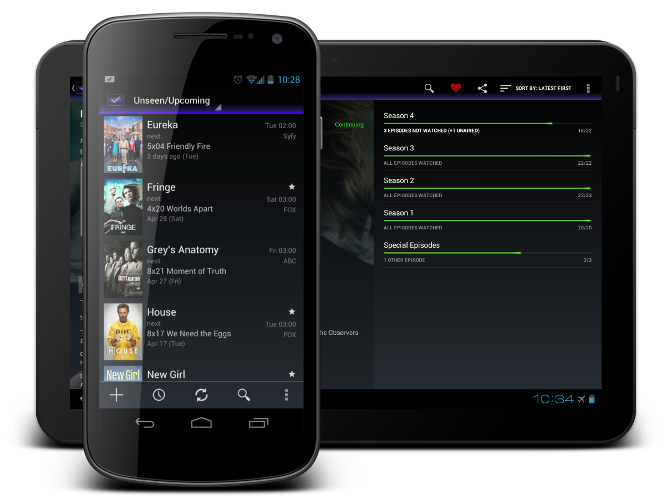
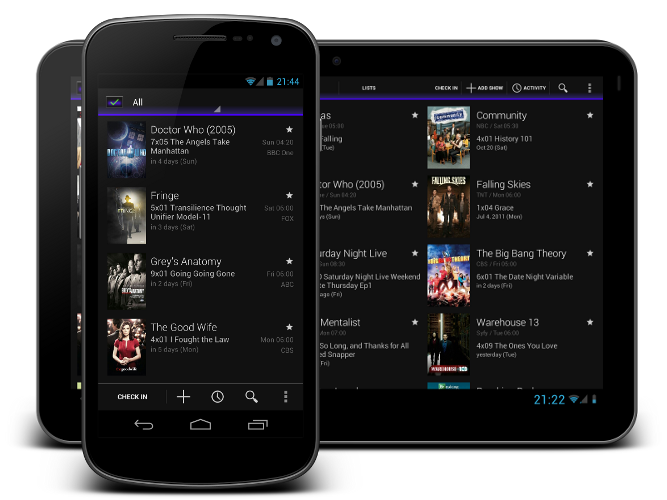
Update front page graphics, replaced shouts with season progress. Updated text.

diff --git a/index.html b/index.html
@@ -103,15 +103,15 @@ title: SeriesGuide for Android
         <br/>
         <div class="row">
             <div class="span3">
-                <h2>Watch and Shout</h2>
-                <p>New episode airing right now? Open Shouts and discuss it with others watching.</p>
+                <h2>See your progress</h2>
+                <p>See how you are doing, spot unseen episodes at a glance.</p>
             </div>
             <div class="span3">
                 <img src="images/shouts_snippet.png" />
             </div>
             <div class="span4">
 				<h2>Much more...</h2>
-                <p>Add the 'Next episodes' widget to your home screen. Customize SeriesGuide in Settings. Have a peek at  the <a href="hints">Getting Started</a> page. Explore!</p>
+                <p>Add the widget to your home screen. Customize SeriesGuide in Settings. Have a peek at  the <a href="hints">Getting Started</a> page. Explore!</p>
             </div>
         </div>
     </div>
